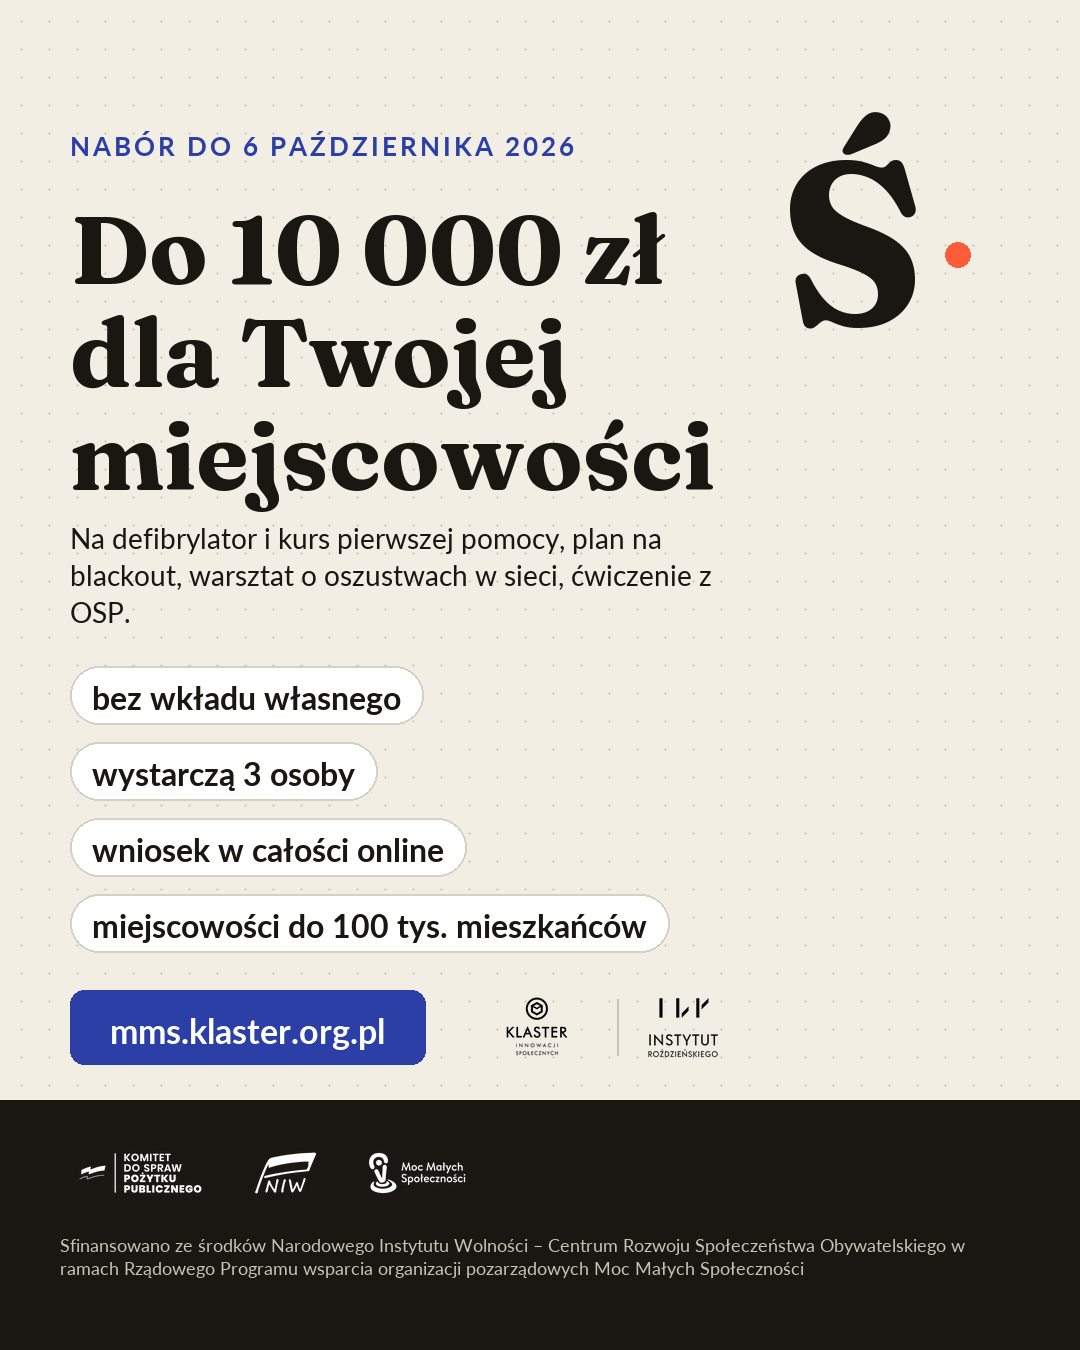
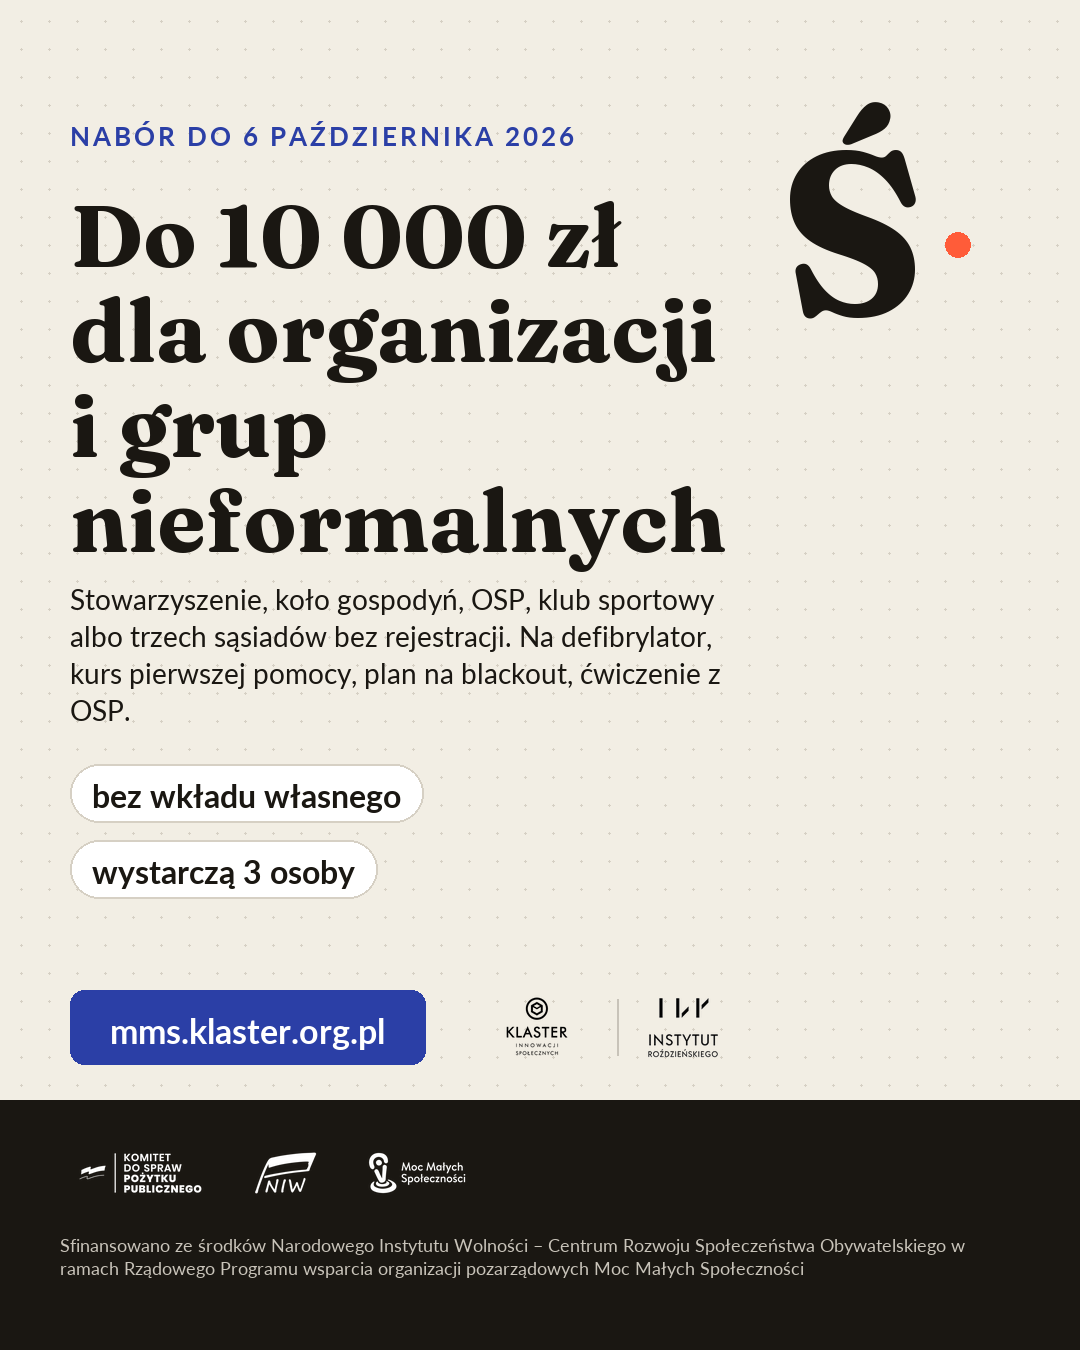
Reklamy Meta: haslo 'Do 10 000 zl dla organizacji i grup nieformalnych'

Changed region(s): [[0.0611, 0.1244, 0.6722, 0.7156], [0.7333, 0.0622, 0.8556, 0.2489], [0.0611, 0.0933, 0.55, 0.1244]]

diff --git a/promocja/reklamy/grafiki_reklamy.py b/promocja/reklamy/grafiki_reklamy.py
@@ -49,9 +49,9 @@ def grafika(W, H, naglowek_sz, top, story=False):
     y = top
     etykieta(d, 70, y, "Nabór do 6 października 2026", sz=30 if story else 26)
     y += 70 if story else 60
-    y = tekst_lam(d, 70, y, "Do 10 000 zł dla Twojej miejscowości", f_fraunces(naglowek_sz, 700), TUSZ, W - 140 - (0 if story else sz + 40), lh=int(naglowek_sz * 1.08))
+    y = tekst_lam(d, 70, y, "Do 10 000 zł dla organizacji i grup nieformalnych", f_fraunces(naglowek_sz, 700), TUSZ, W - 140 - (0 if story else sz + 40), lh=int(naglowek_sz * 1.08))
     y += 22
-    y = tekst_lam(d, 70, y, "Na defibrylator i kurs pierwszej pomocy, plan na blackout, warsztat o oszustwach w sieci, ćwiczenie z OSP.", f_lato(34 if story else 28), TUSZ, W - 140 - (0 if story else sz + 40), lh=int((34 if story else 28) * 1.35))
+    y = tekst_lam(d, 70, y, "Stowarzyszenie, koło gospodyń, OSP, klub sportowy albo trzech sąsiadów bez rejestracji. Na defibrylator, kurs pierwszej pomocy, plan na blackout, ćwiczenie z OSP.", f_lato(34 if story else 28), TUSZ, W - 140 - (0 if story else sz + 40), lh=int((34 if story else 28) * 1.35))
     y += 34
     f = f_lato(36 if story else 32, bold=True)
     chipy = ["bez wkładu własnego", "wystarczą 3 osoby", "wniosek w całości online", "miejscowości do 100 tys. mieszkańców"]
@@ -70,7 +70,7 @@ def grafika(W, H, naglowek_sz, top, story=False):
     pasek_dolny(im, d, W, H, hb, 20 if story else 18)
     return im
 
-grafika(1080, 1080, 76, 90).save(OUT + "/reklama-kwadrat-1080x1080.png", optimize=True)
-grafika(1080, 1350, 96, 130).save(OUT + "/reklama-pion-1080x1350.png", optimize=True)
-grafika(1080, 1920, 112, 330, story=True).save(OUT + "/reklama-story-1080x1920.png", optimize=True)
+grafika(1080, 1080, 70, 80).save(OUT + "/reklama-kwadrat-1080x1080.png", optimize=True)
+grafika(1080, 1350, 88, 120).save(OUT + "/reklama-pion-1080x1350.png", optimize=True)
+grafika(1080, 1920, 104, 320, story=True).save(OUT + "/reklama-story-1080x1920.png", optimize=True)
 print("OK", os.listdir(OUT))
